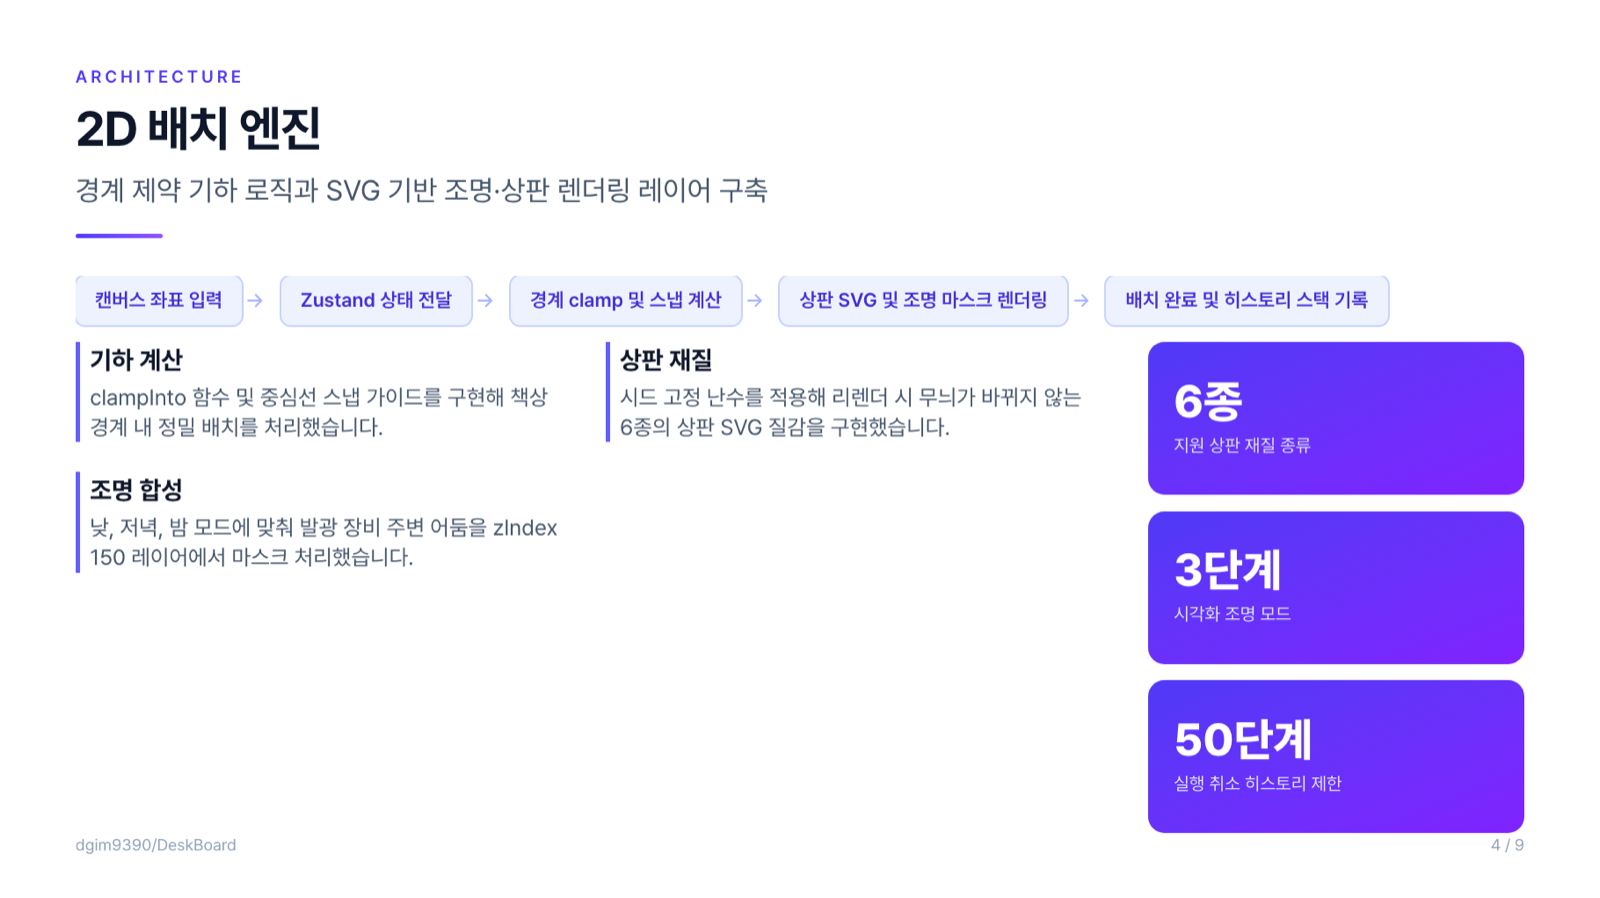
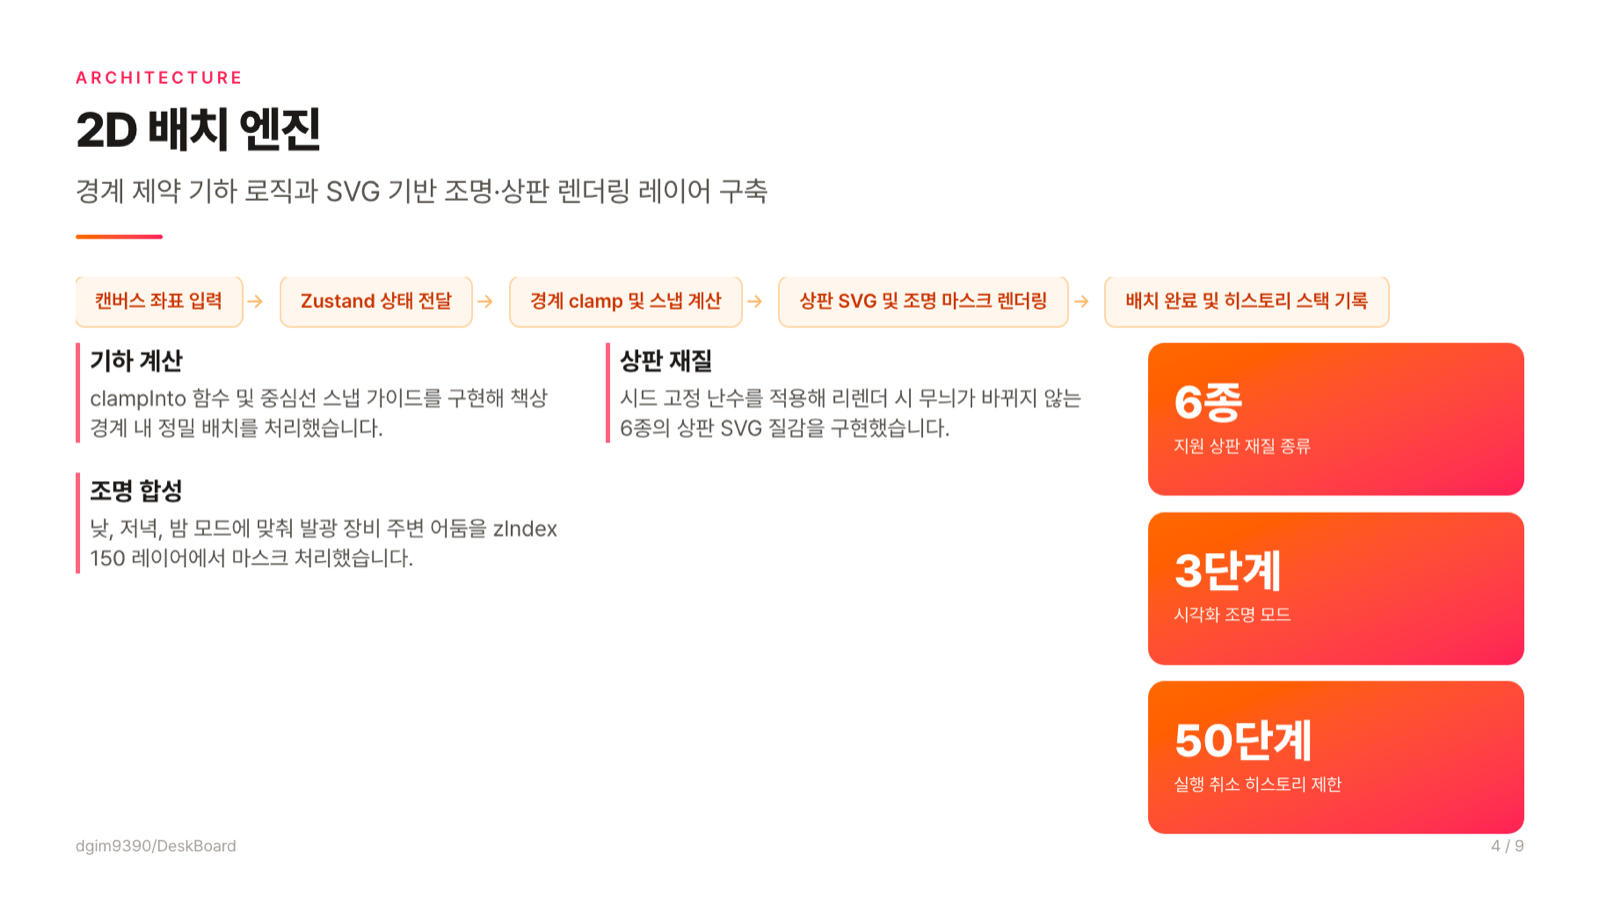
README 스크린샷을 새 테마로 교체, 테마 갤러리 추가
- 포트폴리오·발표 자료 대표 이미지를 선셋 테마로 다시 촬영
- 터미널·페이퍼·오션·모노 표지 갤러리(2×2)와 레포별 테마 설명 추가

diff --git a/README.md b/README.md
@@ -17,13 +17,24 @@ AI가 쓴 문장은 그럴듯하지만 근거가 없을 때가 많습니다. Com
   <img src="docs/slide-architecture.png" width="49%" alt="발표 자료 구조 슬라이드" />
 </p>
 
-<p align="center"><sub>dgim9390/DeskBoard(커밋 39개)를 분석한 결과입니다. 수치 카드(6종·3단계·50단계)는 근거 커밋에서 확인된 값만 표시됩니다.</sub></p>
+<p align="center"><sub>dgim9390/DeskBoard(커밋 39개)를 분석한 결과, 선셋 테마입니다. 수치 카드(6종·3단계·50단계)는 근거 커밋에서 확인된 값만 표시됩니다.</sub></p>
+
+**레포마다 다른 테마.** AI가 프로젝트 성격을 보고 7가지 테마 중 하나를 고르고, 포트폴리오와 발표 자료에 같이 적용합니다. 편집 모드에서 직접 바꿀 수도 있습니다.
+
+| 터미널 · 개발 도구·백엔드 | 페이퍼 · 문서·연구·리포트 |
+|---|---|
+| <img src="docs/theme-terminal.png" alt="터미널 테마 표지" /> | <img src="docs/theme-paper.png" alt="페이퍼 테마 표지" /> |
+| **오션 · 데이터·대시보드·모바일** | **모노 · 미니멀 도구·디자인** |
+| <img src="docs/theme-ocean.png" alt="오션 테마 표지" /> | <img src="docs/theme-mono.png" alt="모노 테마 표지" /> |
+
+<sub>이 밖에 오로라(범용 웹·AI 서비스), 선셋(소비자 앱·라이프스타일), 포레스트(환경·교육·게임)가 있습니다.</sub>
 
 ## 주요 기능
 
 - **포트폴리오 소개글:** 한 줄 소개와 개요, 주요 기여 4~6개, 분야별 기술 스택으로 구성됩니다.
   - 기여마다 제목, 한 줄 요약, 구체적인 구현 포인트 2~3개, 기술 태그가 붙습니다.
   - 문장별 복사와 마크다운 전체 복사를 지원합니다.
+- **레포별 테마:** 오로라·터미널·페이퍼·선셋·오션·모노·포레스트 7종. AI가 프로젝트에 맞게 고르고, 포트폴리오와 발표 자료가 같은 테마를 씁니다.
 - **발표 자료:** 8~10장의 기술 발표 슬라이드입니다.
   - 표지 → 목차 → 문제 정의 → 핵심 기능·구조 → 기술 스택 → 정리 순서이고, 장 종류마다 레이아웃이 다릅니다.
   - 장마다 핵심 메시지 한 문장이 들어가고, 구조 장에는 흐름도가 있습니다.
